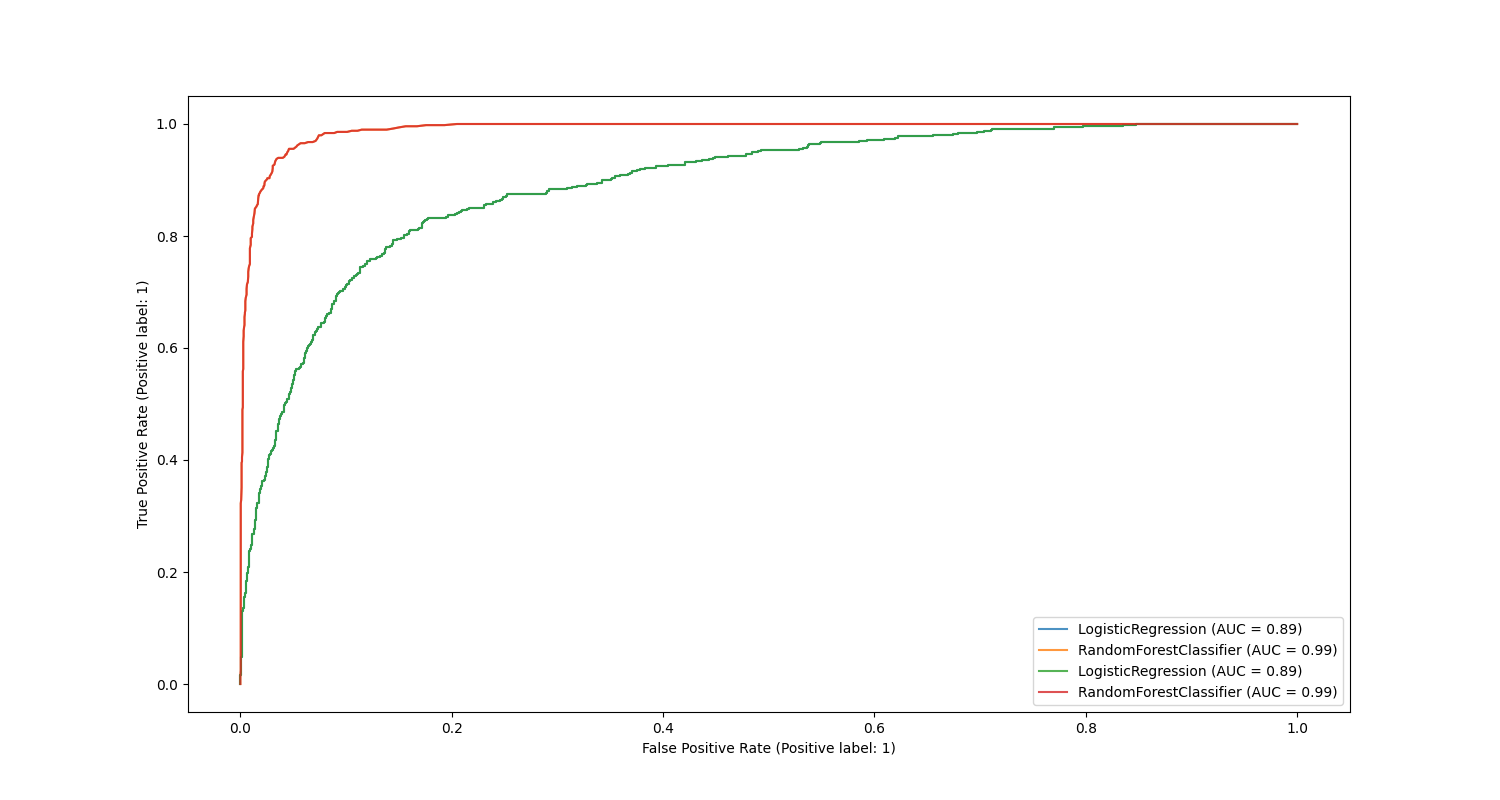
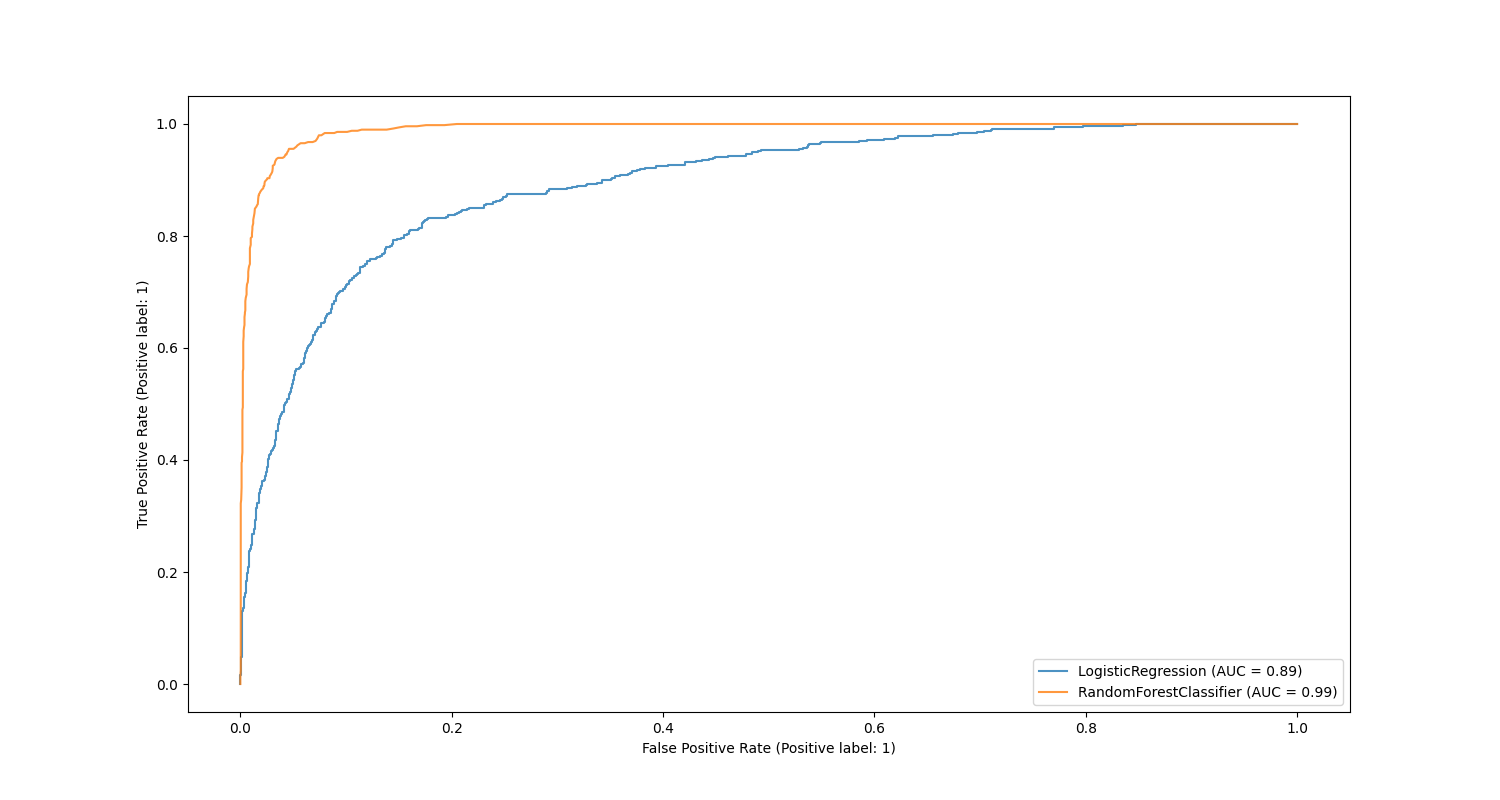
Refactored the train_models() to remove extra local variables & refined how it generates plots

Changed region(s): [[0.7053, 0.7812, 0.8893, 0.8438], [0.1533, 0.5625, 0.184, 0.75], [0.2147, 0.1562, 0.276, 0.1875]]

diff --git a/churn_library.py b/churn_library.py
@@ -399,11 +399,10 @@ def train_models(
     # Compute ROC curve
     plt.figure(figsize=(15, 8))
     axis = plt.gca()
-    lrc_plot = plot_roc_curve(lrc, x_test, y_test, ax=axis, alpha=0.8)
-    rfc_disp = plot_roc_curve(cv_rfc.best_estimator_,
-                              x_test, y_test, ax=axis, alpha=0.8)
-    lrc_plot.plot(ax=axis, alpha=0.8)
-    rfc_disp.plot(ax=axis, alpha=0.8)
+    plot_roc_curve(lrc, x_test, y_test, ax=axis, alpha=0.8)
+    plot_roc_curve(cv_rfc.best_estimator_,
+                   x_test, y_test, ax=axis, alpha=0.8)
+
     plt.savefig(fname='./images/results/roc_curve_result.png')
     plt.close()
 
